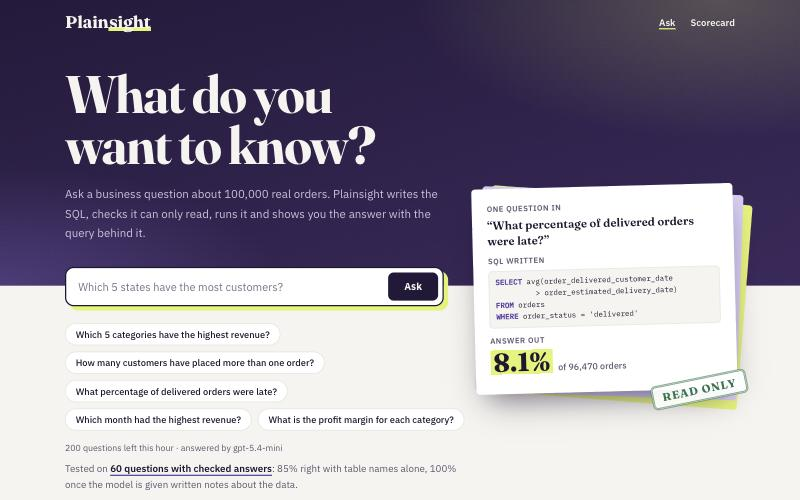
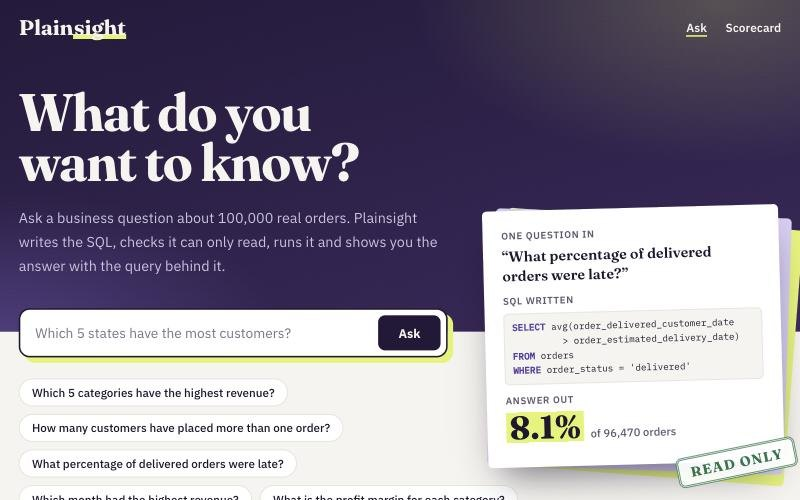
Present the repository like Jhola and QuoteRunner
- README rewritten in the same layout: badges, live demo link, a demo GIF,
  highlights, a screenshot grid, architecture and answer-flow diagrams,
  the data, key decisions, the evaluation, known limitations, a
  repository tour, run locally, deploy and license.
- Screenshots and the demo GIF are from the live site; a 1280x640 social
  preview image for the repository settings.
- MIT license, and project metadata in pyproject.toml.

Changed region(s): [[0.0, 0.15, 1.0, 1.0], [0.0, 0.03, 0.1875, 0.09], [0.8125, 0.03, 0.9688, 0.09]]

diff --git a/README.md b/README.md
@@ -1,59 +1,107 @@
-# Plainsight
+# Plainsight: plain English in, checked SQL and the answer out
 
-Ask a business question in plain English and get the answer from a real database, along
-with the SQL that produced it. Then see how often those answers are actually right.
+Ask a business question about 100,000 real orders from a Brazilian online marketplace, like *"Which 5 categories have the highest revenue?"*, *"How many customers have placed more than one order?"* or *"What percentage of delivered orders were late?"*. Plainsight has a language model write one SQL query, checks in code that it can only read, runs it and shows you the answer with the query behind it. A benchmark of 60 questions with checked answers measures how often it's right, and what makes it right.
 
-**Live:** https://plainsight.ramiyer.tech
+[![CI](https://github.com/iyerbrah/Plainsight/actions/workflows/ci.yml/badge.svg)](https://github.com/iyerbrah/Plainsight/actions/workflows/ci.yml)
+[![Deploy](https://github.com/iyerbrah/Plainsight/actions/workflows/deploy.yml/badge.svg)](https://github.com/iyerbrah/Plainsight/actions/workflows/deploy.yml)
+[![Live site](https://img.shields.io/badge/live-plainsight.ramiyer.tech-24193a)](https://plainsight.ramiyer.tech/)
+[![License: MIT](https://img.shields.io/badge/license-MIT-5b3fa6)](LICENSE)
+[![Python 3.11+](https://img.shields.io/badge/python-3.11%2B-3776ab)](pyproject.toml)
 
-**Built with:** Python, SQL (DuckDB), FastAPI, sqlglot, the OpenAI API (gpt-5.4-mini), and plain
-HTML, CSS and JavaScript for the pages
+**[Try the live demo →](https://plainsight.ramiyer.tech/)** · [Scorecard](https://plainsight.ramiyer.tech/scorecard) · Built by [Ram Iyer](https://github.com/iyerbrah)
 
-![The Ask page: a question box over the data, with an example question, its SQL and its answer](docs/home.jpg)
+![Plainsight demo: a question typed in plain English, a bar chart of the answer with the rows and the SQL, a single-number answer, and a question the data can't answer being refused](docs/demo.gif)
 
-## The finding
+## Highlights
 
-A language model given only the table and column names answered **85%** of 60 test
-questions correctly. Given a page of written notes explaining what the data means, it
-answered **100%**. Nothing else that was tried made a measurable difference.
+- **The finding: the notes do the work.** Given only the table and column names, gpt-5.4-mini answers 85% of the 60 test questions right, and 7 of the 15 hard ones. Given one page of written notes on what the data means (what counts as revenue, which id is a customer), it answers 100%. Worked examples and a second attempt add nothing measurable. DeepSeek V4 Pro, tested first, shows the same jump: 83% to 98%.
+- **The model writes SQL; code decides what runs.** Every query is parsed with sqlglot and anything but a single `SELECT` is refused before it reaches the database. The database is opened read-only, can't read files or web addresses, and stops at 15 seconds or 1,000 rows.
+- **It refuses instead of guessing.** Questions the data can't answer (profit margins, costs, customer names) come back as "can't be answered from this data", not as a confident wrong number. With the notes, all 10 such test questions are refused.
+- **Every answer shows its receipt.** The SQL is always on screen, with a copy button. Results are drawn as one big number, or a bar chart and the rows.
+- **Measured in public.** The [Scorecard](https://plainsight.ramiyer.tech/scorecard) shows every run and every failure, with the generated and reference SQL side by side and the reason it failed. Every result file is committed in [results/](results/).
+- **Shipped like a team.** Small PRs with CI on each one (103 offline tests with a fake model), a protected `main`, and automatic deploys to its own Ubuntu server behind nginx with HTTPS. Per-visitor and daily question limits keep the bill at about $0.0015 a question.
 
-That's gpt-5.4-mini, the model the site uses. The same test on DeepSeek V4 Pro, run first,
-gave the same picture: 83% without the notes, 98% with them.
+**Stack:** Python 3.12 · FastAPI · Jinja2 + vanilla JS · DuckDB · sqlglot · OpenAI `gpt-5.4-mini` · pytest · ruff · GitHub Actions · nginx + systemd on an Ubuntu VPS
 
-The model was never bad at SQL. It was missing what the business means by its own words:
-what counts as revenue, and what counts as a customer.
+| Ask in plain English | Get the answer and its SQL | Refused when the data can't answer |
+| --- | --- | --- |
+| ![Plainsight home page](docs/home.jpg) | ![A bar chart of the top 5 categories by revenue, with the rows](docs/answer.jpg) | ![A profit-margin question refused because the data has no costs](docs/refusal.jpg) |
 
-![The Scorecard page: accuracy for each setup on the 60 test questions](docs/scorecard.jpg)
+| How often it's right | Every failure, explained | Works on a phone |
+| --- | --- | --- |
+| ![The Scorecard: accuracy for each setup](docs/scorecard.jpg) | ![A failed question with the generated and reference SQL side by side](docs/failures.jpg) | ![Plainsight on a phone](docs/mobile.jpg) |
 
 ## Why I built it
 
-Tools that let people ask data questions in plain English are easy to demo and hard to
-trust: a wrong number looks exactly like a right one. I wanted to measure how often the
-answers are right, and find out what actually makes them right.
+Tools that let people ask data questions in plain English are easy to demo and hard to trust: a wrong number looks exactly like a right one. I wanted to measure how often the answers are right, and find out what actually makes them right.
 
-## What it does
+## Architecture
 
-Type a question such as *"Which 5 categories have the highest revenue?"* and the app:
+```mermaid
+flowchart LR
+  B[Browser] -->|HTTPS| N[nginx<br/>TLS, real client address,<br/>backstop rate limit]
+  N --> A[FastAPI app<br/>pages + POST /api/ask]
+  A -->|question + notes + examples| O[OpenAI<br/>gpt-5.4-mini]
+  O -->|one SELECT, or CANNOT_ANSWER| C[Code: parse with sqlglot,<br/>single SELECT only]
+  C --> D[(DuckDB<br/>olist.duckdb, read-only)]
+  R[results/*.json +<br/>failure_labels.yaml] --> S["/scorecard"]
+```
 
-1. Sends the question to a language model, together with notes describing the database.
-2. Gets a SQL query back.
-3. Checks the query is safe to run (read-only, one statement).
-4. Runs it and shows the answer: one big number, or a bar chart and the rows, always with the SQL itself.
+- **`POST /api/ask`** takes one question (up to 300 characters) and returns the answer, the SQL and how to draw it.
+- **`GET /`** and **`GET /scorecard`** are the two pages, rendered on the server; a little plain JavaScript asks questions and draws the answers.
+- **`GET /healthz`** checks the app can open its database, without calling the model; systemd, the deploy script and uptime monitors use it.
+- **Limits:** 20 questions an hour per visitor and 300 a day for the whole site, counted in the app; nginx adds a looser per-address cap as a backstop. The same question is answered from a cache instead of asking the model again.
 
-| category | revenue |
-|---|---|
-| health_beauty | 1,233,131.72 |
-| watches_gifts | 1,166,176.98 |
-| bed_bath_table | 1,023,434.76 |
-| sports_leisure | 954,852.55 |
-| computers_accessories | 888,724.61 |
+## How an answer is made
 
-The data is the public Olist dataset: about 100,000 orders from a Brazilian online
-marketplace, 2016 to 2018, across eight tables.
+1. **Build the prompt.** The question goes to the model with [schema.md](schema.md), a page of written notes about the tables and their traps, and six worked examples from [examples.yaml](examples.yaml). The instructions: reply with exactly one `SELECT`, or `CANNOT_ANSWER` if the data can't answer it.
+2. **The model writes the query** (1 call, reasoning effort `low`).
+3. **Code checks it.** sqlglot parses it, and anything other than a single `SELECT` (or `UNION` of selects) is refused.
+4. **It runs read-only** in DuckDB, with external access off, a 15-second timeout and a 1,000-row cap.
+5. **One second try.** If the query fails, the error goes back to the model once for a fix. The page says when the answer came from the corrected query.
+6. **Show it.** One value is shown large; a label and a number per row get a bar chart above the table; anything else is a table. The SQL is always shown.
 
-## How accuracy is measured
+```mermaid
+flowchart LR
+  Q[Question] --> M[LLM: write one SELECT<br/>or CANNOT_ANSWER]
+  M -->|CANNOT_ANSWER| X[Refused:<br/>not in this data]
+  M --> K[Code: sqlglot check]
+  K --> R[DuckDB, read-only<br/>15 s, 1,000 rows]
+  K -->|not a single SELECT| F[LLM: fix it, once]
+  R -->|query failed| F
+  F -->|fixed| K
+  F -->|fails again| E[Error card,<br/>with the SQL]
+  R --> V[Answer + its SQL]
+```
 
-The repository contains 60 test questions, each with a reference SQL query whose answer
-was checked against the database.
+## The data
+
+The public [Olist dataset](https://www.kaggle.com/datasets/olistbr/brazilian-ecommerce): orders placed on a Brazilian marketplace between September 2016 and October 2018, money in Brazilian reais, in eight tables. The file is in the repository (`olist.duckdb`, 27 MB), so the app runs without the download.
+
+| Table | Rows | One row per |
+| --- | --- | --- |
+| `orders` | 99,441 | order |
+| `order_items` | 112,650 | item in an order |
+| `order_payments` | 103,886 | payment on an order |
+| `order_reviews` | 99,224 | review |
+| `customers` | 99,441 | order's customer record |
+| `products` | 32,951 | product |
+| `sellers` | 3,095 | seller |
+| `product_category_name_translation` | 71 | category |
+
+The hard part is the business meaning, not the SQL. `customer_id` is new for every order, so counting repeat customers with it always gives zero; revenue means item prices on delivered orders, not payments; joining items and payments at the same level multiplies rows. [schema.md](schema.md) spells these out, and that page is what the benchmark measures.
+
+## Key decisions
+
+- **Notes over examples.** The benchmark ladder adds one thing at a time, and the written notes are the only addition that moved the score. They're also cheaper to keep right than a pile of examples, and the examples caused a mistake of their own (see below).
+- **Code is the safety boundary, not the prompt.** The model is asked for one `SELECT`, but nothing relies on it: the parser, the read-only connection, the timeout and the row cap hold even if the model writes something else.
+- **Refusing is a valid answer.** `CANNOT_ANSWER` is part of the contract, scored as correct for the 10 questions the data can't answer and as wrong anywhere else.
+- **Scored on results, not SQL text.** Two different queries can both be right, so a generated query is correct when it returns the same table as the checked reference: row order, column order and column names don't matter, and extra columns are allowed.
+- **One small app.** FastAPI with server-rendered pages and no frontend framework, a database file in the repository, and one process on its own server. The limits are counted in memory, which is why the service runs a single worker.
+
+## Evaluation
+
+[benchmark.yaml](benchmark.yaml) has 60 questions, each with a reference query whose answer was checked against the database. [evaluate.py](evaluate.py) asks the real model each question under each setup and scores the results.
 
 | Difficulty | Questions | Example |
 |---|---|---|
@@ -62,23 +110,12 @@ was checked against the database.
 | Hard | 15 | How many customers have placed more than one order? |
 | Cannot be answered | 10 | What is the profit margin for each category? |
 
-A generated query counts as correct when it returns the same table as the reference
-query. The SQL text does not have to match, because two different queries can both be
-right. For the last group, the correct response is to say the data cannot answer it.
-
-The hard questions are hard because of the data, not the SQL. For example, the customer
-id in this dataset changes with every order, so counting repeat customers with the
-obvious column always gives zero.
-
-## Results
-
-Each row adds one thing to the row above it, to show what that addition is worth.
-gpt-5.4-mini ran with reasoning effort `low`, as on the site.
+Each row adds one thing to the row above it, to show what that addition is worth. gpt-5.4-mini ran with reasoning effort `low`, as on the site.
 
 | What the model was given | gpt-5.4-mini | Hard questions | DeepSeek V4 Pro |
 |---|---|---|---|
 | Table and column names only | 51 of 60 (85%) | 7 of 15 | 50 of 60 (83%) |
-| + written notes about the data | 60 of 60 (100%) | 15 of 15 | 59 of 60 (98%) |
+| + written notes about the data | **60 of 60 (100%)** | 15 of 15 | 59 of 60 (98%) |
 | + six worked examples | 59 of 60 (98%) | 15 of 15 | 58 of 60 (97%) |
 | + a second attempt if the SQL fails | 60 of 60 (100%) | 15 of 15 | 59 of 60 (98%) |
 
@@ -86,95 +123,64 @@ DeepSeek V4 Flash, a model costing a fifth as much as V4 Pro, got 57 of 60 (95%)
 
 What this shows:
 
-- **The written notes do the work.** Without them, gpt-5.4-mini gets 8 of the 15 hard
-  questions wrong. Seven are a missing business rule: what counts as revenue, which orders
-  count, and the customer id that is new for every order. The eighth is a query that
-  referred to a table it never named. With the notes, all 15 are right.
-- **Worked examples and the second attempt added nothing measurable.** Those rows differ
-  by one question, which is within the variation between runs. The second attempt was
-  never needed: with the notes, no generated query failed to run.
-- **The examples caused a new mistake.** One example filters revenue to delivered orders.
-  After seeing it, every model added that filter to a question that did not ask for it.
-  All three errors of DeepSeek V4 Flash are this one mistake.
-- **The "cannot be answered" questions are nearly too easy.** With the notes, all 10 were
-  refused on every model. Without them, gpt-5.4-mini answered one: it called item prices
-  the cost of goods sold.
+- **The written notes do the work.** Without them, gpt-5.4-mini gets 8 of the 15 hard questions wrong. Seven are a missing business rule: what counts as revenue, which orders count, and the customer id that is new for every order. The eighth is a query that referred to a table it never named. With the notes, all 15 are right.
+- **Worked examples and the second attempt added nothing measurable.** Those rows differ by one question, which is within the variation between runs. The second attempt was never needed: with the notes, no generated query failed to run.
+- **The examples caused a new mistake.** One example filters revenue to delivered orders. After seeing it, every model added that filter to a question that did not ask for it. All three errors of DeepSeek V4 Flash are this one mistake.
+- **The "cannot be answered" questions are nearly too easy.** With the notes, all 10 were refused on every model. Without them, gpt-5.4-mini answered one: it called item prices the cost of goods sold.
 
-Every failed question, with the generated and the reference SQL side by side and the
-reason it failed, is on the Scorecard page.
+**Cost:** the four gpt-5.4-mini runs (240 questions) cost about $0.29 at OpenAI's list price of $0.75 per million input tokens and $4.50 per million output tokens; the five DeepSeek runs about $0.09 together. On the site, one question costs about $0.0015, so a day at the 300-question cap costs under $0.50.
 
-## Limits
+## Known limitations
 
-- Each row is one run, so a difference of one or two questions means nothing. A perfect
-  score on 60 questions doesn't mean the next question will be answered right.
-- 60 questions on one database is a small test.
-- The notes and the questions were written together, so the hard questions measure
-  whether the model follows stated rules, not whether it could work them out.
-- Scoring is lenient: a result with extra columns still counts as correct.
+- **One run per row,** so a difference of one or two questions means nothing, and a perfect score on 60 questions doesn't mean the next question will be answered right.
+- **60 questions on one database** is a small test.
+- **The notes and the questions were written together,** so the hard questions measure whether the model follows stated rules, not whether it could work them out alone.
+- **Scoring is lenient:** a result with extra columns still counts as correct.
+- **The data stops in 2018** and never changes; questions about anything later get no rows.
+- **It's a demo:** the question limits and the answer cache live in memory, so a restart clears them.
 
-## Safety
+## Repository tour
 
-The app runs SQL written by a model, from text typed by anyone, so it does not rely on
-the model behaving:
+| Path | What's there |
+| --- | --- |
+| [`engine.py`](engine.py) | Question to answer: builds the prompt, calls the model, checks the SQL, runs it read-only, the one retry |
+| [`schema.md`](schema.md), [`examples.yaml`](examples.yaml) | The written notes about the data and the six worked examples, both sent to the model |
+| [`web/main.py`](web/main.py) | The routes: the two pages, `POST /api/ask`, `/healthz`, the answer cache |
+| [`web/templates/`](web/templates/), [`web/static/`](web/static/) | The pages, the stylesheet and the JavaScript that asks questions and draws answers |
+| [`web/scores.py`](web/scores.py) | Reads the result files for the Scorecard |
+| [`limits.py`](limits.py) | Questions per visitor per hour, and per day for the whole site |
+| [`benchmark.yaml`](benchmark.yaml), [`evaluate.py`](evaluate.py) | The 60 test questions with reference SQL, and the runner that scores a setup |
+| [`results/`](results/), [`failure_labels.yaml`](failure_labels.yaml) | Every question, generated query and outcome for each run, and the reason for each failure |
+| [`tests/`](tests/) | 103 offline tests with a fake model: SQL safety, scoring, every reference query, limits, the website |
+| [`deploy/`](deploy/) | The systemd unit, nginx site, deploy scripts and the server runbook |
+| [`.github/workflows/`](.github/workflows/) | CI on every PR, and the deploy after CI passes on `main` |
+| [`build_db.py`](build_db.py) | Loads the Kaggle CSVs into `olist.duckdb` |
 
-- The query is parsed, and anything other than a single `SELECT` is rejected.
-- The database connection is read-only.
-- Queries cannot read files or web addresses.
-- Results are capped at 1,000 rows and 15 seconds.
-- Each visitor can ask 20 questions an hour, and the whole site 300 a day, so the model bill
-  has a ceiling. nginx adds a looser per-address cap on the live server as a backstop.
+## Run locally
 
-The tests in `tests/` check each of these on every pull request.
+You need Python 3.11 or newer and an OpenAI API key.
 
-## Cost
+```bash
+python3 -m venv .venv
+.venv/bin/pip install -r requirements-dev.txt
+cp .env.example .env                                  # then add OPENAI_API_KEY
+.venv/bin/uvicorn web.main:app --reload --port 8100   # http://127.0.0.1:8100
+```
 
-The four gpt-5.4-mini benchmark runs (240 questions) cost about $0.29 at OpenAI's list
-price of $0.75 per million input tokens and $4.50 per million output tokens. The five earlier
-DeepSeek runs cost about $0.09 together.
+`.env` is ignored by git, so the key never gets committed; restart the app after changing it.
 
-On the site, one question costs about $0.0015, so even a day at the 300-question cap costs
-under $0.50.
+```bash
+.venv/bin/pytest -q                                   # all tests, no key needed: the model is faked
+.venv/bin/python evaluate.py --setup all              # the whole benchmark ladder (about $0.30)
+.venv/bin/python evaluate.py --setup names_only       # one setup
+```
 
-## Run it yourself
-
-With Python 3.11 or newer, from the project folder:
-
-1. `python3 -m venv .venv && .venv/bin/pip install -r requirements-dev.txt`
-2. `cp .env.example .env`, then paste your OpenAI key after `OPENAI_API_KEY=` in `.env`
-   (it's ignored by git, so the key never gets committed).
-3. `.venv/bin/uvicorn web.main:app --reload --port 8100`, then open http://127.0.0.1:8100
-
-Restart the app after changing `.env`; it reads the file when it starts.
-
-- Tests (offline: no key, no model calls, no cost): `.venv/bin/pytest`
-- Rerun the benchmark (about $0.30 on gpt-5.4-mini): `.venv/bin/python evaluate.py --setup all`
-- The database (`olist.duckdb`) is in the repository. To rebuild it from the source: download
-  the Olist dataset from Kaggle, unzip the CSVs into `data/` and run `.venv/bin/python build_db.py`.
+To rebuild the database from the source, download the Olist dataset from Kaggle, unzip the CSVs into `data/` and run `.venv/bin/python build_db.py`.
 
 ## Deploy
 
-The live site runs on a small Ubuntu server behind nginx, as a systemd service. Merging into
-`main` deploys automatically once CI passes. [deploy/README.md](deploy/README.md) covers day-to-day
-use, rollback, setting the server up from scratch and troubleshooting.
+The live site, [plainsight.ramiyer.tech](https://plainsight.ramiyer.tech), runs on an Ubuntu VPS shared with two other projects: nginx with a Let's Encrypt certificate in front, the app under uvicorn as a locked-down systemd service. Merging into `main` deploys automatically once CI passes: GitHub Actions connects with a key that can run only the deploy script, which accepts only commits on `main`, and checks the site answers. [deploy/README.md](deploy/README.md) has the day-to-day commands, rollback, the setup from scratch and troubleshooting.
 
-## Files
+## License
 
-| File | Purpose |
-|---|---|
-| `web/` | The website: `main.py` (pages and the `/api/ask` endpoint), `scores.py` (Scorecard data), templates, CSS and JavaScript |
-| `engine.py` | Builds the prompt, calls the model, checks and runs the SQL |
-| `limits.py` | Questions per visitor per hour, and per day for the whole site |
-| `tests/` | Offline tests: SQL safety, scoring, every reference query, limits, the website |
-| `schema.md` | The written notes about the data that are sent to the model |
-| `examples.yaml` | The six worked examples |
-| `benchmark.yaml` | The 60 test questions and reference SQL |
-| `evaluate.py` | Runs the benchmark and writes a results file per run |
-| `results/` | Every question, generated query and outcome for each run |
-| `failure_labels.yaml` | The reason for each failed question |
-| `build_db.py` | Loads the CSVs into the database file |
-| `olist.duckdb` | The database itself, so the app runs without the download |
-| `.env.example` | Every setting, with what it does; copy it to `.env` for local use |
-| `.github/workflows/ci.yml` | Lint and the offline tests on every pull request |
-| `.github/workflows/deploy.yml` | Deploys `main` to the server after CI passes |
-| `deploy/` | The systemd service, the nginx site, the deploy scripts and the server guide |
-| `docs/` | Screenshots used in this README |
+The code is under the [MIT license](LICENSE). The data is Olist's public dataset, published on [Kaggle](https://www.kaggle.com/datasets/olistbr/brazilian-ecommerce) under the terms shown there. Plainsight is a portfolio demo: answers are written by a language model, so check the SQL before relying on one.
